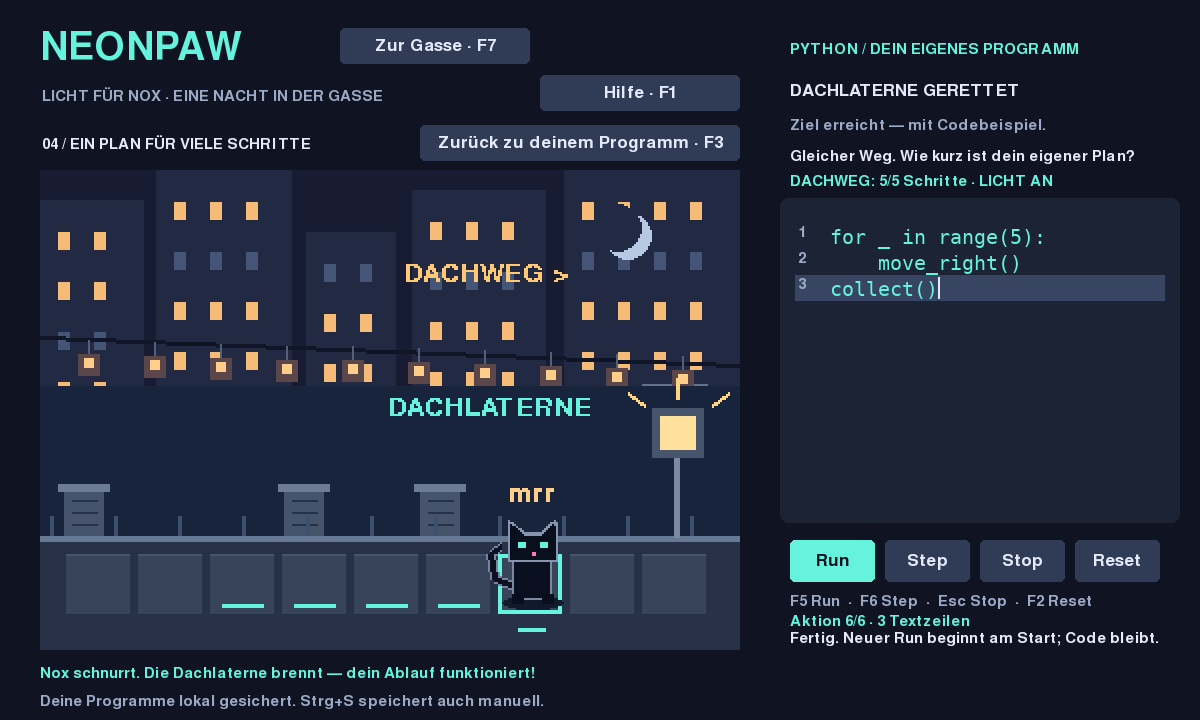
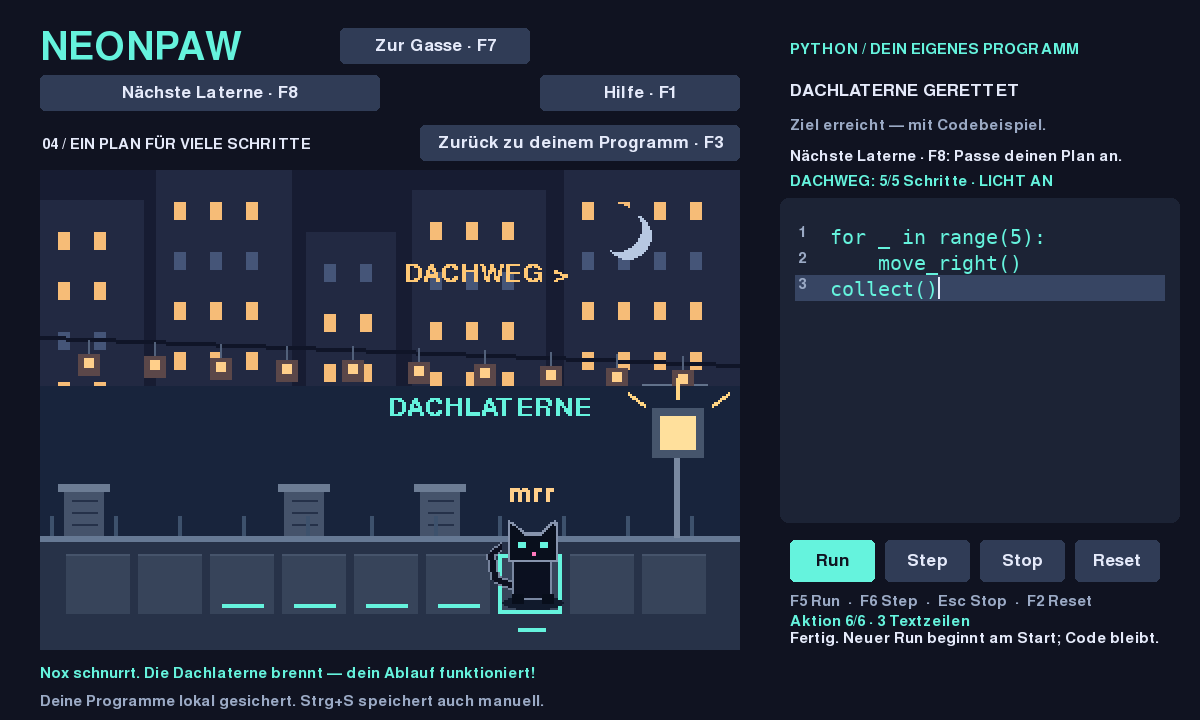
test: finish recovered rooftop transfer SDL flow and recovery handoff

Changed region(s): [[0.0308, 0.0917, 0.3392, 0.1528], [0.6475, 0.2139, 0.9558, 0.2444]]

diff --git a/tests/smoke_app.py b/tests/smoke_app.py
@@ -136,6 +136,51 @@ for _ in range(6):
     frame(dt=.5)
 assert app.runner.world.powered and app.runner.world.x == 6 and app.runner.line == 3
 pygame.image.save(app.canvas, 'evidence/roof-solved.png')
+# Roof transfer: unchanged old plan must fail, own edit succeeds, both drafts survive.
+frame(pygame.event.Event(pygame.KEYDOWN, key=pygame.K_F8, mod=0))
+assert app.roof_transfer_active and app.runner.world.battery_x == 8
+assert app.source == roof_program
+pygame.image.save(app.canvas, 'evidence/roof-transfer-start.png')
+for attempt in range(2):
+    click('Run')
+    for _ in range(6):
+        frame(dt=.5)
+    assert app.runner.error and app.runner.world.x == 6 and not app.runner.world.powered
+pygame.image.save(app.canvas, 'evidence/roof-transfer-error.png')
+click('Hilfe')
+assert app.source == roof_program
+click('Hilfe')
+assert app.source == roof_program
+pygame.image.save(app.canvas, 'evidence/roof-transfer-hint.png')
+# Write the correction while the optional second hint remains visible.
+frame(pygame.event.Event(pygame.KEYDOWN, key=pygame.K_a, mod=pygame.KMOD_CTRL))
+frame(pygame.event.Event(pygame.TEXTINPUT, text='for _ in range(7):\n    move_right()\ncollect()'))
+transfer_program = app.source
+click('Step')
+click('Step')
+assert app.runner.world.x == 3
+click('Stop')
+frame(dt=2)
+assert app.runner.world.x == 3
+click('Reset')
+assert app.runner.world.x == 1 and app.source == transfer_program
+click('Run')
+for _ in range(8):
+    frame(dt=.5)
+assert app.runner.world.powered and not app.used_example
+app = App(save_path=save_path)
+frame()
+assert app.roof_transfer_active and app.source == transfer_program
+assert app.runner.status == 'idle' and not app.runner.world.powered
+click('Run')
+for _ in range(8):
+    frame(dt=.5)
+pygame.image.save(app.canvas, 'evidence/roof-transfer-solved.png')
+click('Dachtransfer')
+assert app.source == roof_program and app.runner.world.battery_x == 6
+click('Dachtransfer')
+assert app.source == transfer_program
+click('Dachtransfer')
 app = App(save_path=save_path)
 frame()
 assert app.roof_active and app.source == roof_program and app.runner.status == 'idle'
@@ -188,7 +233,7 @@ assert app.runner.status == 'error' and app.runner.world.x == 1
 pygame.image.save(app.canvas, 'evidence/current-error.png')
 frame(pygame.event.Event(pygame.QUIT))
 assert not app.alive
-print('PASS: SDL queue -> own typo correction -> editor -> Run/Step/Stop/Reset -> collect -> transfer -> unchanged-code refusal -> user edit -> power -> blank recall -> draft restoration -> recall solution -> roof repetition -> optional loop -> Step/Stop -> roof success -> all drafts restored -> disk save/restart -> optional hints -> reset -> errors -> quit')
+print('PASS: SDL queue -> own typo correction -> editor -> Run/Step/Stop/Reset -> collect -> transfer -> unchanged-code refusal -> user edit -> power -> blank recall -> draft restoration -> recall solution -> roof repetition -> optional loop -> Step/Stop -> roof success -> roof transfer refusal -> own loop correction -> transfer restart -> all drafts restored -> disk save/restart -> optional hints -> reset -> errors -> quit')
 print('Video driver:', pygame.display.get_driver())
 print('Physical desktop interaction / human usability: NOT_TESTED')
 pygame.quit()

diff --git a/CURRENT.md b/CURRENT.md
@@ -1,9 +1,31 @@
-# CURRENT — 2026-11-06 — Dachweg und CI integriert
+# CURRENT — 2026-11-09 — P0-Rettung und Dachtransfer
 
-- M: Ausgangspunkt 5d3d559 sauber, Bundle geprüft, 130 Tests reproduziert. Remote enthielt 37aa6fb (CI) plus bae7b57 (Handoff). Normaler konfliktfreier Merge 13fa15d erhält beide Entwicklungsstränge und die unveränderte CI. 08c07aa erfolgreich gepusht und Remote-SHA geprüft.
-- M: GitHub-Actions-Lauf #3 für 08c07aa erfolgreich: https://github.com/essenmitpassion-sudo/Catworld/actions/runs/42239921670 . Über öffentliche Actions-Webseite geprüft; API-Zugriff am Proxy mit 403 gesperrt. Auch Läufe #1/#2 erfolgreich. Auszug evidence/github-ci-integration.json.
-- M: Nach Integration 130 Tests sowie SDL-Smoke mit offscreen und CI-Treiber dummy erfolgreich. Anschließend veraltete Vorschau im Abschluss korrigiert: Dachweg / F7 führt direkt weiter; Eigenlösung bleibt bei Rückkehr erhalten. Reproduzierter RED, danach 130 GREEN und voller SDL-Smoke. evidence/roof-transition-*.txt.
-- M: Spielbar: Einstieg, eigene Ergänzung, Transfer, leerer Abrufeditor, Dachweg mit Ziel 6. Wiederholte Befehle und begrenzte for/range-Schleifen, freiwillige Hinweise, sichtbare Laterne. Drei getrennte Entwürfe, alte Speicherversion lesbar. README/Sicherheitsbeschreibung aktualisiert. Screenshots für Hilfe, Erfolg und Übergang visuell geprüft.
-- Automation: nur Test-CI; kein aktivierter Codex-Entwicklungs-Scheduler. Keine neuen Dienste, API-Keys, Runner oder Eingriffe in andere Anwendungen.
-- Offen: menschlicher Lernwert/Spielspaß, nativer Windows-/DPI-Test, unabhängiger Security-Audit. Build bleibt Python-Quellbuild mit Startskript. Finale SHA über git log -1; Bundle/Build unter /workspace/Catworld-Roof.*.
-- Nächste einzelne Produktaufgabe: Dachweg-Transfer mit verändertem Ziel und selbst angepasster Wiederholungszahl, bisherige Lösung erhalten. Keine neue Sprachidee oder Engine. Vorher echten Git-/Prozessstand und frische Reviews prüfen.
+Ziel: Cyberpunk-Spiel mit selbst geschriebenem Python; ein Integrator.
+Branch: g0/first-cat-action. Extern verifizierter Rettungscommit:
+7d4675c2d1f48e32b132088c0590e17241fdec9c (auf db0ea246 aufgebaut).
+Nachfolgender Abschlusscommit ergänzt SDL-Nachweise und diese Übergabe; SHA mit git log -1 prüfen.
+
+## Bestandsaufnahme
+- TECH_PASS: Einstieg, Batterie/Automat, Transfer, Abruf ohne Vorlage, animierte Pixelkatze, Dachweg mit for/range; sichere AST-Teilmenge und Aktionsbudgets. Run/Step/Stop/Reset.
+- TECH_PASS: geretteter Dachtransfer (F8 nach Dach-Erfolg): Ziel von 6 auf 8, unveränderter eigener Plan, neue Zahl selbst schreiben; falscher Plan gewinnt nicht durch wiederholtes Run. Freiwillige Hinweise, sichtbare Laterne. Vier separate Entwürfe in Schema 3; Schema 1/2 weiter lesbar.
+- M: 134 Tests nach externer Rettung erneut bestanden (evidence/recovery-tests.txt). Vollständiger SDL-Offscreen-Smoke erweitert: F8, zweimal falscher Plan, eigene Korrektur, Step/Stop/Reset, Neustart, beide Dachentwürfe und Rückkehr. evidence/roof-transfer-smoke.txt. Erfolgsbild visuell geprüft.
+- Nicht verifiziert: menschlicher Lernwert/Spielspaß, nativer Windows-/DPI-Test, unabhängiger Sicherheits-Audit. Keine aktuell reproduzierten Testfehler. UI-Zustand wird beim Neustart zurückgesetzt, Programme laufen nie automatisch.
+- Geplant, nicht implementiert: mehrere Laternen in einem Programm verbinden (Bewegen und Aufnehmen sinnvoll kombinieren), keine neue Python-Syntax. Vor Ausbau kurze Produktprüfung anhand des bestehenden Spiels.
+
+## Rettung / Infrastruktur
+Bestehende Umgebung wieder erreichbar, kein Workspaceersatz durch den Agenten.
+Alle sechs geänderten/neuen Dateien gefunden. Vollarchiv einschließlich Git,
+untracked und ignored: /workspace/Catworld-recovery-2026-11-09.tar.gz;
+3078 Dateien per SHA-256 gegen Original verglichen. Bundle gleichen Namens .bundle
+geprüft. GitHub-Remote vor Rettung db0ea246, Push auf 7d4675c bestätigt.
+Cloud-Startfehler war beobachtet, Ursache unbekannt; Shell/Mount/Dateien jetzt erreichbar.
+Sandbox konnte Proxy nicht erreichen; genehmigter äußerer Netzwerkaufruf erfolgreich.
+Keine Datenlöschung, Resets, anderen Projekte, Dienste oder Scheduler verändert.
+Nur Test-CI; kein kontinuierlicher Codex-Entwicklungsscheduler.
+
+## Wiederaufnahme
+Erster Befehl: `cd /workspace/Catworld && git status --short --branch && git log -5 --oneline`
+1. Lokalen Stand/Backups sichern, Fetch und Remote/Reviews vergleichen; Dachtransfer nicht erneut entwickeln.
+2. `.venv/bin/python -m pytest -q` und `SDL_VIDEODRIVER=offscreen SDL_AUDIODRIVER=dummy .venv/bin/python -m tests.smoke_app` bei Codeänderungen reproduzieren.
+3. Als nächsten Produktbatch mehrere Laternen in einem Ablauf untersuchen; vorher den aktuellen Stand extern sichern. Bei Limit zuerst Checkpoint statt Feature.
+Alle zum Abschluss gehörenden Änderungen werden committed; keine absichtlich zurückgelassene WIP-Arbeit. Tatsächlicher git status gilt vor dieser Aussage. Das Rettungsarchiv bleibt zusätzlich unverändert erhalten.

diff --git a/NEXT_TASK.md b/NEXT_TASK.md
@@ -1,15 +1,16 @@
-# Nächste Aufgabe: Wiederholung übertragen
+# Nächste Aufgabe: mehrere Ziele mit einem eigenen Plan
 
-Dachweg und for/range sind umgesetzt; nicht doppelt implementieren. 130 Tests und
-SDL-Smokes grün. CI-Integration auf GitHub erfolgreich (Lauf #3, 08c07aa).
+Dachtransfer ist implementiert und gerettet (7d4675c), 134 Tests grün; der neue
+SDL-Smoke prüft auch F8, falschen Plan, eigene Korrektur und dauerhaften Entwurfserhalt.
+Nicht nochmals entwickeln. CURRENT.md enthält den Wiederaufnahmebefehl.
 
-Nächster kleiner Lernfortschritt: Nach eigener Dachlösung wartet eine Laterne an
-einem anderen Standort. Spieler beobachtet, passt seine Wiederholungszahl an und
-sieht das Ergebnis. Keine automatische Komplettlösung, Hinweise freiwillig. Alte
-Dachlösung und alle bisherigen Entwürfe erhalten, auch bei Neustart. Keine zusätzliche
-Python-Syntax. Persistenzmigration zuerst durch Tests absichern, falls nötig.
+Nächster ausführbarer Produktschritt: vorhandene World/collect-Regeln lesen und
+einen RED-Test für zwei nacheinander erreichbare Laternen im selben Programm
+formulieren. Ziel: Bewegungen und collect kombinieren; kein neuer Python-Befehl.
+Vor Umsetzung die einfachste Darstellung wählen und bisherigen Ein-Ziel-Code samt
+Entwürfen unverändert lauffähig halten. Kein generisches Inventar/Level-Framework.
 
-Zuerst Git-/Prozessstand und neue Reviews prüfen; lokale Arbeit vor Fetch sichern.
-Dann RED/GREEN, bestehende Programme erhalten, vollständige Regression/SDL-Smoke,
-Commit und Bundle, Push/CI prüfen. Keine parallelen Writer oder automatischen Merges.
-Nur Test-CI aktiv; kein 60-Minuten-Codex-Scheduler. Menschlicher Lernwert bleibt offen.
+Vor jedem neuen Batch Git-/Prozessstand prüfen, lokale Arbeit sichern und Remote
+vergleichen. Nach kleinem getestetem Paket committen, Bundle prüfen, pushen und
+Remote bestätigen. Bei Limitzeichen sofort retten. Keine parallelen Writer,
+Auto-Merges oder Scheduler. Menschlicher Lernwert bleibt bis zum Spieltest offen.

diff --git a/PROGRESS_LOG.md b/PROGRESS_LOG.md
@@ -78,3 +78,14 @@ M: Umsetzung d5081fd. Animierte Bewegung rein in der Präsentation, Nox-Blinzeln
 RED 8 failed / Exit 1 (episode-red.txt), GREEN/Refactor 84 passed / Exit 0 (episode-refactor.txt). Refactor: Aktionsnamen zentral zusammengefasst; keine neue Abhängigkeit oder Speicherformatänderung. SDL-Gesamtdurchlauf inkl. Tippfehlerkorrektur, Transfer, Abruf, Speicherung/erneutem Start und Fehlerpfaden Exit 0 (episode-smoke.txt). 240 deterministisch angesteuerte SDL-Frames mit Ergebnisassertions (episode-demo.txt); Video ist automatisierte Demonstration, kein Human-Test.
 Selbstkritik: vorherige Technik zeigte vor allem einzelne Übungen; technische Tests allein rechtfertigten kein Urteil „fühlt sich wie ein Spiel an“. Jetzt sind Zusammenhang und Darstellung technisch belegt, aber Freude/Neugier bleiben menschlich offen. Learning L015.
 M: REST-PR-Abfrage Forbidden, keine PR erstellt/kein Bestand behauptet. d5081fd und Bundle vor Artefaktarbeit gesichert. Nächste einzelne Aufgabe: längerer Weg + eng begrenzte Wiederholung, keine gesamte Stadt.
+
+## 2026-11-09 — P0 Workspace-Recovery und Dachtransfer-Abschluss
+M: Bestehende Umgebung wieder erreichbar. Uncommittete Dachtransfer-Arbeit erhalten:
+3 geänderte Quelldateien, neuer Test und RED/GREEN-Protokolle. Vor Tests Vollarchiv
+mit 3078 per SHA-256 geprüften Dateien, Commit 7d4675c, Bundle verify erfolgreich.
+Fetch: Remote db0ea246; kein Integrationskonflikt. Push 7d4675c und Remote-SHA bestätigt.
+Erst danach 134 Tests erneut grün und bisheriger SDL-Smoke erfolgreich.
+Fortsetzung: SDL-Smoke um neuen Dachtransfer erweitert (F8, falscher Plan zweimal,
+optionale Hinweise, eigene Korrektur, Step/Stop/Reset, Neustart, vier Entwürfe), PASS.
+Sichtprüfung Erfolgsbild bestanden. Menschliches Verständnis/Spielspaß nicht geprüft.
+Dauerhafte Checkpoint-Regel in AGENTS/Loop; CURRENT/NEXT_TASK aktualisiert.

diff --git a/AGENTS.md b/AGENTS.md
@@ -28,3 +28,16 @@ G0: eine programmierbare schwarze Pixelkatze mit sichtbarer Bewegung, Run/Step/S
 
 ## Autonomer Betrieb
 Der kurze, nicht-blockierende Ablauf steht in `AUTONOMOUS_LOOP.md`. Bei neu begonnenen Entwicklungsrunden lesen; er erlaubt eigenständige kleine Inkremente und ersetzt keine Sicherheitsgrenzen. Eine zeitgesteuerte Codex-Ausführung muss separat aktiviert werden.
+
+## Checkpoints und Limits (Owner, 2026-11-09)
+SICHERN → VERIFIZIEREN → PUSHEN → WEITERENTWICKELN. Nach jedem getesteten Paket,
+vor riskanten Änderungen oder Hauptaufgabenwechseln und bei ersten Limitzeichen
+sichern. Bei Limitzeichen sofort Featurearbeit beenden. Unfertiges separat und
+vollständig archivieren (auch untracked Assets), Inhalt/Hashes prüfen; nicht als
+fertig deklarieren. Commits durch geprüftes Git-Bundle ergänzen. CURRENT.md mit
+Commit, Tests, offenen Änderungen und Wiederaufnahmebefehl aktualisieren;
+NEXT_TASK.md nennt den nächsten ausführbaren Schritt. Push mit Remote-SHA prüfen.
+Lokale Sicherungen schützen nicht vor Workspaceverlust. Bei Pushfehler LOCAL_ONLY
+notieren, kein Force-Push/Reset; nur sicher wiederherstellbare Arbeit fortsetzen.
+Beim Neustart zuerst lokale Änderungen/Backups prüfen und sichern, dann Remote
+vergleichen; keine Doppelimplementierung aufgrund veralteter Dokumente.

diff --git a/AUTONOMOUS_LOOP.md b/AUTONOMOUS_LOOP.md
@@ -35,3 +35,10 @@ GitHub-Commit ≠ laufende Codex-Automation. Dokumentiertes pytest-PASS ≠ unab
 - M: In dieser Sitzung keine native Automationsverwaltung als Werkzeug verfügbar. Zeitplan NICHT eingerichtet, erster automatischer Lauf NICHT nachgewiesen. Diese Datei aktiviert keinen Scheduler.
 - Vor jedem tatsächlichen Start: laufende Entwicklungs-/Git-Prozesse und Git-Status einschließlich lokaler Commits prüfen, dann AGENTS.md, CURRENT.md, NEXT_TASK.md und neue unabhängige Reviews lesen. Vor Fetch/Integration lokale Arbeit sichern. Keine ungesicherten Resets oder Force-Pushs.
 - Eine künftig verfügbare native Automation muss überlappende Läufe zuverlässig ausschließen (bei bereits aktivem Integrator auslassen); eine reine Prozessmomentaufnahme reicht nicht als gegenseitiger Ausschluss. Keine eigenen Cron-/Scheduler-Ersatzprozesse.
+
+## Sicherung während der Sitzung
+Verbindliche Checkpoint-Regel siehe AGENTS.md: auch vor Aufgabenwechseln und
+Refactorings sichern, bei Limitzeichen sofort auf Rettung umschalten. Unfertige
+Dateien einschließlich untracked/Assets separat archivieren und Inhaltsvergleich
+prüfen. Commit + geprüftes Bundle + bestätigter Remote-SHA für fertige Pakete.
+Eine Chat-Zusammenfassung ist keine Sicherung. Keine neuen Scheduler.

diff --git a/LEARNINGS.md b/LEARNINGS.md
@@ -41,3 +41,12 @@ G/O: Bewegung, Batterie, Transfer und Abruf waren vorhanden, aber Owner verlangt
 ## 2026-11-06 — Dachweg-Integration
 - Ein API-403 beweist keinen fehlgeschlagenen GitHub-Lauf: Die öffentliche Actions-Webseite lieferte hier Commit-Zuordnung und erfolgreichen Abschluss, ohne neuen Dienst oder Zugangsdaten.
 - Beim Freischalten einer Vorschau müssen auch bestehende Abschlussmeldungen nachgezogen werden. Der alte Text bezeichnete den fertigen Dachweg weiter als Vorschau; korrigiert und Übergang samt Rückkehr zur Eigenlösung geprüft.
+
+## 2026-11-09 — P0 vor Validierung
+Der Cloud-Ausfall unterbrach ein grünes, aber noch nicht committetes Paket.
+134 bestandene Tests bedeuteten keine externe Sicherung. Die Dateien waren nach
+Wiederverbindung erhalten; Vollarchiv und Checkpoint wurden vor erneutem Testen
+angelegt und extern verifiziert. Gegenmaßnahme: kleine Pakete unmittelbar sichern,
+auch wenn der erweiterte UI-Smoke noch offen ist (klar als Checkpoint benennen).
+Ein fehlender Executor ist kein Beweis für verlorene Dateien; nicht neu aufsetzen
+oder Funktionen erneut implementieren, bevor der bestehende Workspace geprüft ist.
